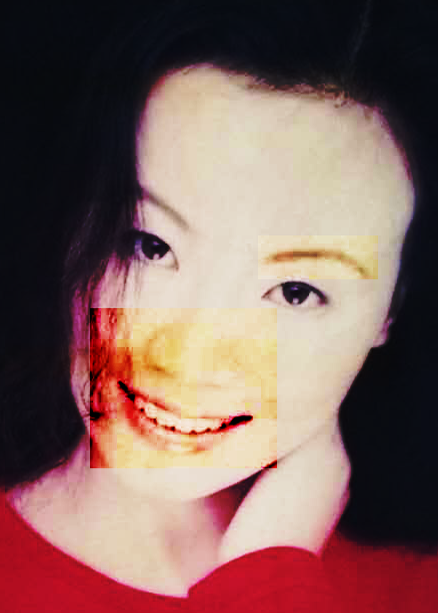
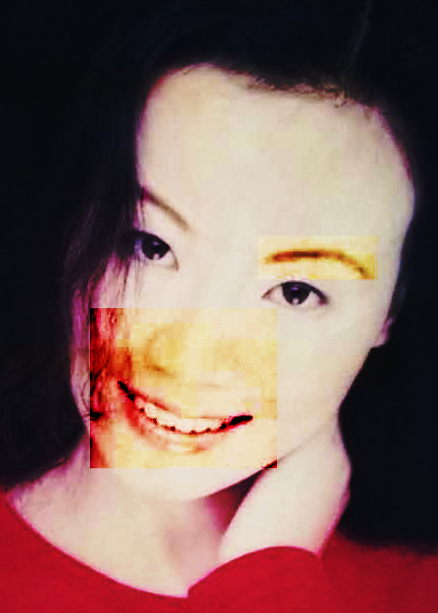
进行优化，采用opencv函数，年底终结版

Changed region(s): [[0.5936, 0.3719, 0.8607, 0.4649], [0.2968, 0.31, 0.3858, 0.3409], [0.3858, 0.3409, 0.4155, 0.3719]]

diff --git a/dice_portrait_cv.py b/dice_portrait_cv.py
@@ -1,7 +1,7 @@
 import datetime, os, sys
 import cv2
 import numpy as np
-import matplotlib.pyplot as plt
+#import matplotlib.pyplot as plt
 
 # 获得图片名，色子列数，色子是否旋转
 def getvalue():
@@ -9,18 +9,19 @@ def getvalue():
         print("Error, invalid arguments!")
         print("Call with " + sys.argv[0] + " inputimage [tile-size] ")
         sys.exit(1)
-
+    ROTATE = False
+    DICE_WIDTH = 50
+    
     if len(sys.argv) == 2:
         imagefile = sys.argv[1]
-        DICE_WIDTH = 50
-        ROTATE = False
+
     elif len(sys.argv) == 3:
         imagefile = sys.argv[1]
         DICE_WIDTH = int(sys.argv[2])
         if (DICE_WIDTH > 150 or DICE_WIDTH < 30):
             print("色子列数不正确，应在30-150之间")
             sys.exit(1)
-        ROTATE = False
+        
     else:
         imagefile = sys.argv[1]
         DICE_WIDTH = int(sys.argv[2])
@@ -41,129 +42,127 @@ def AjustImage(DICE_WIDTH, image):  # 调整图片
     width = int(width * ratio)
     hight = int(hight * ratio)
     image = cv2.resize(image, (width, hight))
-    #image = cv2.equalizeHist(image)
-    #cv2.imshow("origin", image)
-    #clahe = cv2.createCLAHE(clipLimit=2.0, tileGridSize=(4,4))
-    #image = clahe.apply(image)
     return width, hight, image
 
 
 def getDice(DICEPATH):  # 读入色子图形文件
     dice = np.zeros((9, 16, 16),dtype='u8')
     for i in range(9):
-        dice_img = cv2.imread('./dice_image/' + str(i + 1) + 'w.png', 0)
-        dice[i] = dice_img
+        dice[i] = cv2.imread('./dice_image/' + str(i + 1) + 'w.png', 0)
     return dice
 
-def calculateDice(im, imagefile, p, dice, y_max, x_max, ROTATE):  # 计算每个16x16图块的值
+def calculateDice(im, imagefile, p, dice, ROTATE):  # 计算每个16x16图块的值
     
-    b = np.arange(16 * 16, dtype="u8").reshape(16, 16)
-    image_data = np.arange(y_max * x_max, dtype="u8").reshape(y_max, x_max)
+    x_max = int((im.shape[1]/16))
+    y_max = int((im.shape[0]/16))
+    
+    b = np.arange(256, dtype="u8").reshape(16, 16)
     dice_data = np.arange(y_max * x_max, dtype="u8").reshape(y_max, x_max)
 
     dice2_rotate = False
     dice3_rotate = False
     dice6_rotate = False
+
+    cv2.namedWindow(imagefile, 0)
+    cv2.resizeWindow(imagefile, 640, int(640 * y_max / x_max))    
+
+
     for j in range(y_max):
         for i in range(x_max):
             # 获得16x16图片
             b = im[j * 16:(j + 1) * 16, i * 16:(i + 1) * 16]
-            image_data[j, i] = int(np.median(b))
-    image_data_median=  np.median(image_data)
-    #print("min:",np.min(image_data),"max:",np.max(image_data),"median:",image_data_median)
-   
-    
-    cv2.namedWindow(imagefile, 0)
-    cv2.resizeWindow(imagefile, 640, int(640 * y_max / x_max))
-
-    for j in range(y_max):
-        for i in range(x_max):
+            image_data = int(np.mean(b))
 
             # 根据色度值确定色子点数
-            if (image_data[j, i] < p[0]):
+            if (image_data < p[0]):
                 n = 5
-            elif (image_data[j, i] >= p[0]) and (image_data[j, i] < p[1]):
-                 n = 4
-            elif (image_data[j, i] >= p[1]) and (image_data[j, i] < p[2]):
-                 n = 3
-            elif (image_data[j, i] >= p[2]) and (image_data[j, i] < p[3]):
-                 n = 2
-            elif (image_data[j, i] >= p[3]) and (image_data[j, i] < p[4]):
-                n = 1
-            else:
-                n = 0
-            # 2，3，6色子是否旋转
-            if (ROTATE):
-                if (n == 1):
-                    dice2_rotate = not (dice2_rotate)
-                    if (dice2_rotate):
-                        n = 6
-                if (n == 2):
-                    dice3_rotate = not (dice3_rotate)
-                    if (dice3_rotate):
-                        n = 7
-                if (n == 5):
+                if (ROTATE):
                     dice6_rotate = not (dice6_rotate)
                     if (dice6_rotate):
                         n = 8
+            elif (image_data >= p[0]) and (image_data < p[1]):
+                n = 4
+            elif (image_data >= p[1]) and (image_data < p[2]):
+                n = 3
+            elif (image_data >= p[2]) and (image_data < p[3]):
+                n = 2
+                if (ROTATE):
+                    dice3_rotate = not (dice3_rotate)
+                    if (dice3_rotate):
+                        n = 7
+            elif (image_data >= p[3]) and (image_data < p[4]):
+                n = 1
+                if (ROTATE):
+                    dice2_rotate = not (dice2_rotate)
+                    if (dice2_rotate):
+                        n = 6
+            else:
+                n = 0
+           
             im[j * 16:(j + 1) * 16, i * 16:(i + 1) * 16] = dice[n]
             dice_data[j, i] = n + 1
-    #plt.imshow(image_data)
-    #plt.show()
-    #fig = plt.figure()
-    #ax = fig.add_subplot(111)
-    #numBins = 8
-    #ax.hist(image_data)
-    #plt.grid(True)
-    #plt.show()
+    
             #cv2.imshow(imagefile, im)
             #cv2.waitKey(1)
     return im, dice_data
 
 
-def write_Dice(im, OUTPUTPATH, imagefile, DICE_WIDTH, y_max, x_max, dice_data):  # 将色子点数写入文件
-
+def write_Dice(im, OUTPUTPATH, imagefile, dice_data):  # 将色子点数写入文件
+    y_max, x_max = np.shape(dice_data)
+    
+    DICE_WIDTH = x_max
+    print("色子数量", y_max, '*', x_max, '=', x_max * y_max)
     cv2.imwrite(OUTPUTPATH + str(DICE_WIDTH) + '_hist_' + imagefile, im)
     f = open(OUTPUTPATH + str(DICE_WIDTH) + '_hist_' + imagefile + '.txt', 'wt')
+        
     for y in range(y_max):
         f.write((str(y + 1) + ':'))
         for x in range(x_max):
             f.write(str(dice_data[y, x]) + ',')
         f.write('\n')
     f.close()
-    return 'Job Done!'
+    print('文件保存完毕!')
+    return 
 
 
 def main():
+       
     start_time = datetime.datetime.now()
+    
+    #初始化文件路径
     EXEC_PATH = os.getcwd()
-    imagefile, DICE_WIDTH, ROTATE = getvalue()
     DICEPATH = EXEC_PATH + '\\dice_image\\'
     OUTPUTPATH = EXEC_PATH + '\\output\\'
     if not (os.path.exists(OUTPUTPATH)):
         os.mkdir(OUTPUTPATH)
-    #dice, dice_hist = getDice(DICEPATH)
-    dice = getDice(DICEPATH)
-    # 初始化
+    
+    #获得命令行输入参数 
+    imagefile, DICE_WIDTH, ROTATE = getvalue()
+    
+    #读取要渲染的图片及色子图片
     im = cv2.imread(imagefile, 0)
+    dice = getDice(DICEPATH)
+    
+    
+    #调整图片大小
     width, hight, im = AjustImage(DICE_WIDTH, im)
-    x_max = int(width / 16)
-    y_max = int(hight / 16)
-    print("色子数量", x_max, '*', y_max, '=', x_max * y_max)
-    # 定义数组
-    image_data = np.arange(y_max * x_max, dtype="u8").reshape(y_max, x_max)
-    dice_data = np.arange(y_max * x_max, dtype="u8").reshape(y_max, x_max)
+       
+    # 定义数组 可以不定义，自定义函数中已定义，自然继承类型
+    #image_data = np.arange(y_max * x_max, dtype="u8").reshape(y_max, x_max)
+    #dice_data = np.arange(y_max * x_max, dtype="u8").reshape(y_max, x_max)
 
-    # 灰度对应1-6的值
+    # 灰度对应色子1-6的值
     #p = [53,85,117,139,151,203]#原始分组
     #p = [60, 65, 80, 90, 140, 150]
     #p = [75, 90, 100, 110, 120, 200]
-    p = [60, 80, 100, 150, 190, 220]
-    im, dice_data = calculateDice(im, imagefile, p, dice, y_max, x_max, ROTATE)
-    print(write_Dice(im, OUTPUTPATH, imagefile, DICE_WIDTH, y_max, x_max, dice_data))
+    p = [60, 80, 110, 150, 190, 220]
+    
+    
+    im, dice_data = calculateDice(im, imagefile, p, dice, ROTATE)
+    write_Dice(im, OUTPUTPATH, imagefile, dice_data)
 
     end_time = datetime.datetime.now()
-    print('time used:', end_time - start_time)
+    print('程序运行时间:', end_time - start_time,'秒')
     cv2.imshow(imagefile, im)
     cv2.waitKey(0)
 
